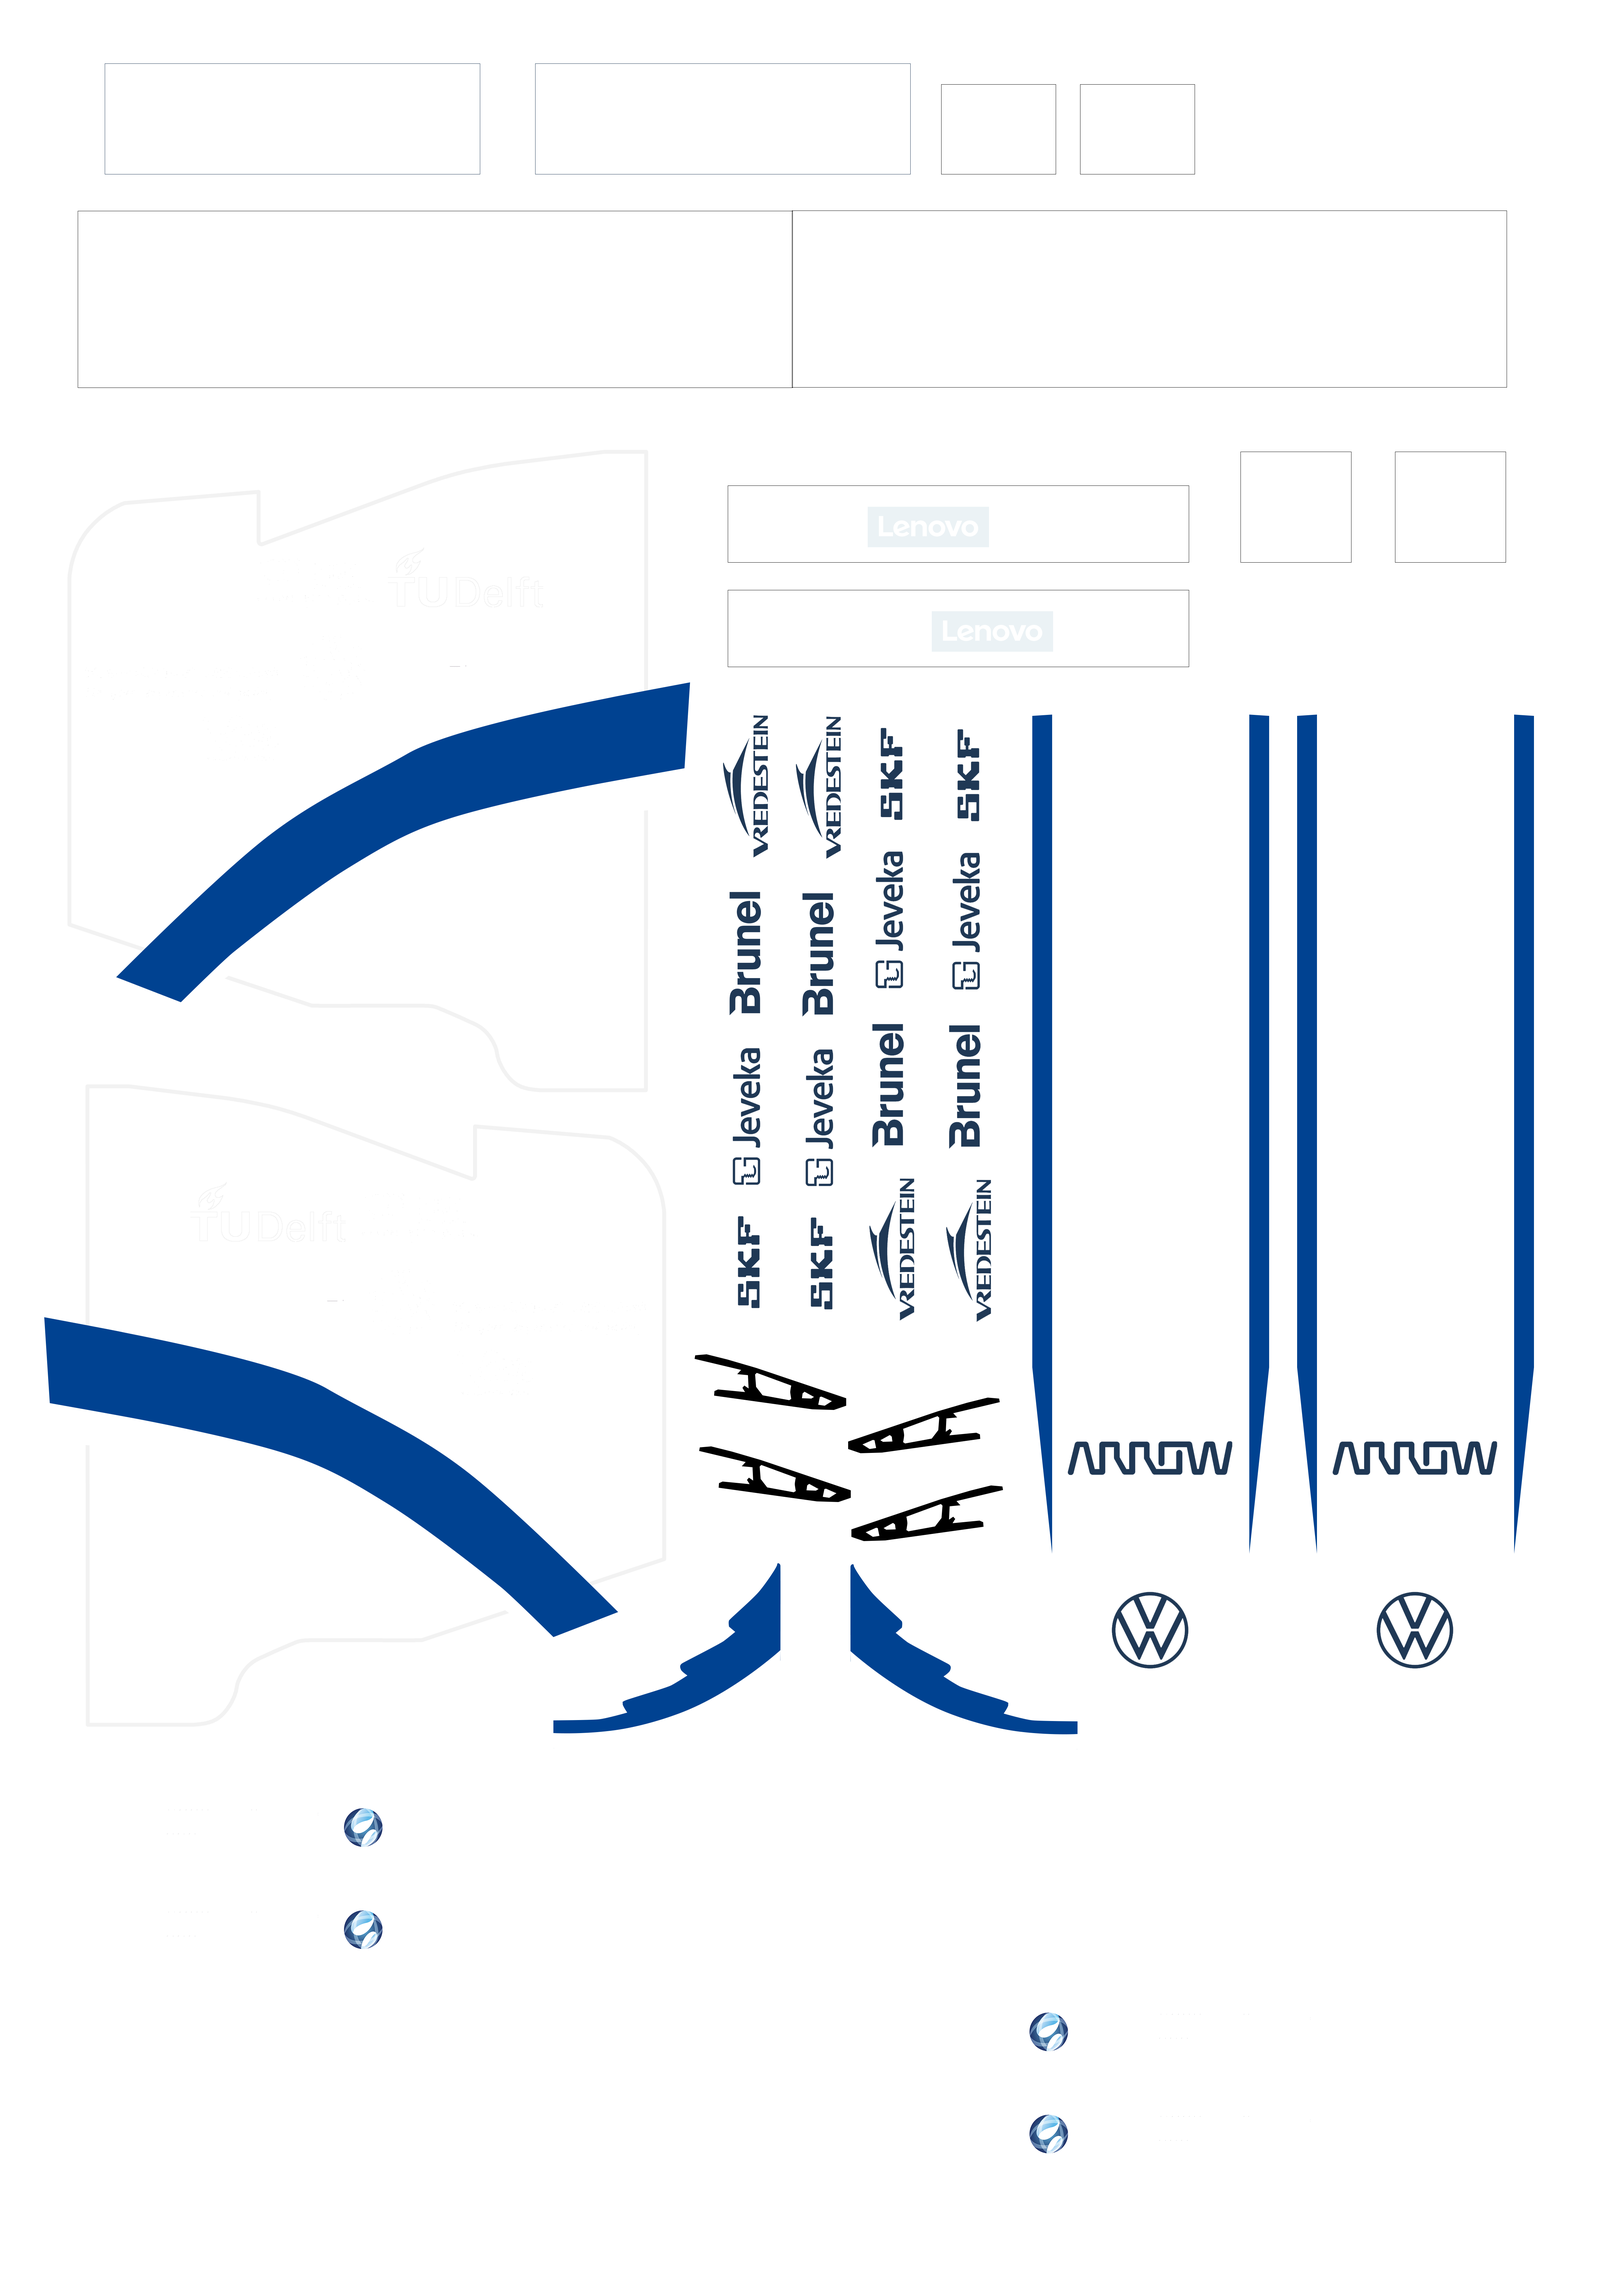
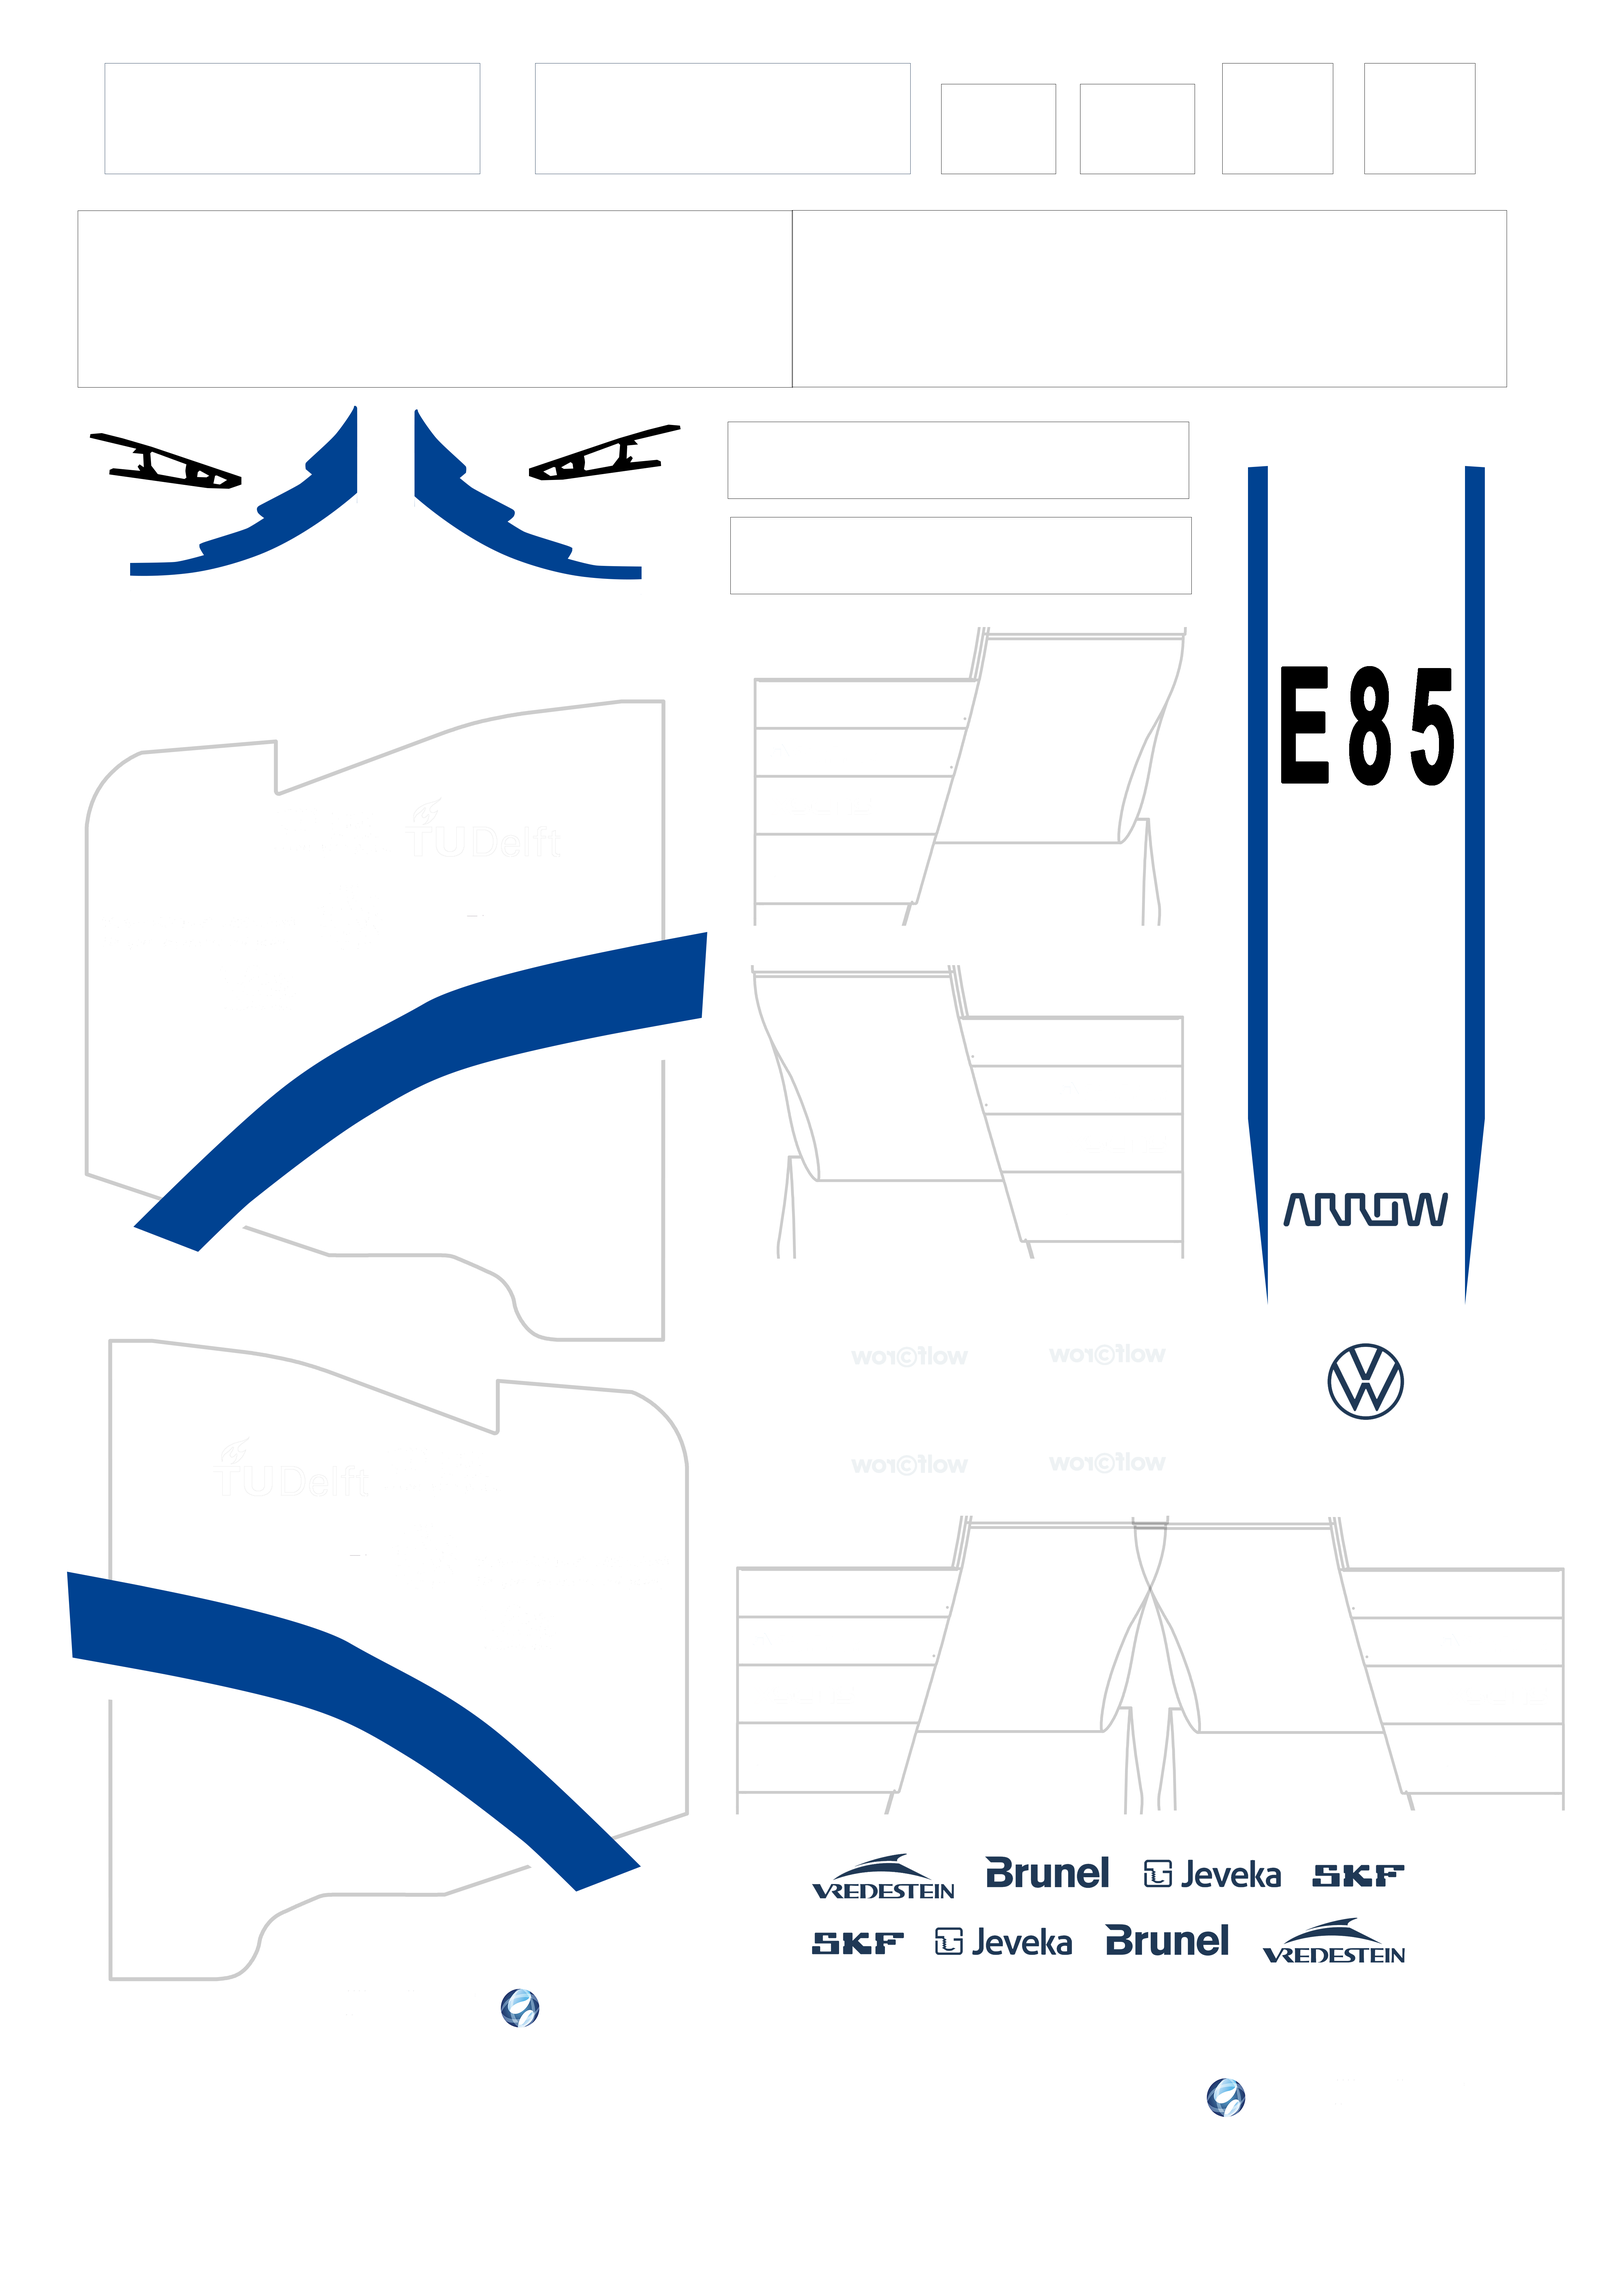
Now with decals!

diff --git a/README.md b/README.md
@@ -3,16 +3,16 @@
 Always wanted to take DUT21 home, but Larry won't let you? Here, you'll find all the files needed to print your very own **1:10 scale model DUT21 car**! How exciting. You better make sure you like screaming when it breaks, cause this isn't perfect in the slightest. Buckle up if you're brave.
 
 ### Pretty pictures
+![](photos/pretty_image_9.png "Wow what an amazing car")
+![](photos/pretty_image_10.png "Wow what an amazing car")
 ![](photos/pretty_image_3.png "Wow what an amazing car")
-![](photos/pretty_image_2.png "Wow what an amazing car")
-![](photos/pretty_image_1.png "Wow what an amazing car")
+[](photos/pretty_image_2.png "Wow what an amazing car")
+[](photos/pretty_image_1.png "Wow what an amazing car")
 ![](photos/pretty_image_7.png "Wow what an amazing car")
 ![](photos/pretty_image_8.png "Wow what an amazing car")
 ![](photos/pretty_image_4.png "Wow what an amazing car")
 ![](photos/pretty_image_5.png "Wow what an amazing car")
 ![](photos/pretty_image_6.png "Wow what an amazing car")
-
-
 
 
 
@@ -65,12 +65,12 @@ Don't forget a primer and take your time while masking off the chassis. For the 
 I used some awesome competition photos as a reference for how to paint it, as well as [this picture of the wrap](photos/wrap.jpeg). I skipped the light blue on the chassis cause I'm lazy, but you do what floats your boat.
 
 ### Assembly
-Just glue it with some super glue, but be smart with the order. Normal glueing tips apply, degrease a bit (or not, if you're brave) and apply ample pressure. For lining everything up, I mostly used the 3D model and did what looked right.
+Just glue it with some super glue, but be smart with the order. Normal glueing tips apply, degrease a bit (or not, if you're brave) and apply ample pressure. For lining everything up, I mostly used the 3D model and did what looked right. If you're applying the declals (which you should cause they're awesome), then I'd recommend doing so before assembly. The other way around can be done, but it's just a bit more of a hassle.
 
 ### Do's and don'ts 
 - Don't be a dumbdumb like me and leave a black PLA chassis in the scorching sun while preparing for painting. PLA will warp like crazy, especially the hollow chassis. Maybe print it with a tiny bit of infill to prevent it from happening as severely as it did to me. 
 
-- Don't be a dumbdumb like me and drop the whole thing, cause everything that can break will break.
+- Don't be a dumb-dumb like me and drop the whole thing, cause everything that can break will break.
 - Don't use hot glue when something breaks. Hot glue is hotter than PLA likes, so warpie warpie -> everything's messed up.
 - I thought I was pretty smart by printing the suspension rods with 100% infill. In Cura, and probably other slicers as well, you can set it to only use 100% infill in a certain area. Still broke when I dropped it, I tried my best. Might be smart to use for the roll hoop as well.
 - Make sure to pay extra attention whether everything is straight and level when glueing things together.
@@ -78,12 +78,13 @@ Just glue it with some super glue, but be smart with the order. Normal glueing t
 
 ## Things to fix still
 - [x] Decals! Gonna get all the sponsors on it to make it look all nice and pretty. For the blue on white, clear waterslide decals seem to work well. I'm still looking for suggestions on how to make the white decals. HMU if you got ideas.
-*Update 23/8/2022: I've uploaded the [decals](decals.png) which I've sent to be printed at https://www.printmetwit.nl/ . Will update once I've seen the results.*
-- [ ] Turns out I forgot the decals on the FW and SD, and the E85 on the top of the car, so still need to add those.
+*Update 23/8/2022: I've uploaded the [decals](decals.png) which I've sent to be printed at https://www.printmetwit.nl/ . Will update once I've seen the results.
+Update 26/8/2022: Decals turned out great and were pretty easy to apply. 10/10 would buy again.*
+- [X] Turns out I forgot the decals on the FW and SD, and the E85 on the top of the car, so still need to add those.
 - [x] Fix that one annoying wing element on the front wing which is way too flimsy who even designed that thing.
 - [ ] Fix the mounting of the cooling radiators. It just doesn't wanna glue right now
 - [ ] Maybe add some tiny recesses in the chassis where stuff needs to be glued? Can help with adhesion and lining stuff up
-- [ ] Add cables and cooling tubes. Thinking of using colored/painted filament, but that would mean 1.75mm always, which is a bit thicc.
+- [ ] Add cables and cooling tubes. Thinking of using colored/painted filament, but that would mean 1.75mm always, which is a bit thicc.s
 - [ ] Play around with the size of the suspension triangles. Maybe thinner suspension rods?
 - [x] Add some more fillets to strengten parts.
 - [x] Add the foam to main hoop.
@@ -96,6 +97,8 @@ Just glue it with some super glue, but be smart with the order. Normal glueing t
 If you've got any questions, hit me up on Slack, I should probably see messages there. If not, my phone number can be found on there as well.
 
 If you've made this, please please please send me photos, I would love for a lot of tiny DUT21's to exist. I still got loads of the right spraypaints left, so i can lend you some as well.
+
+Also, if you've sent the decals to get printed: I'm missing some of the (duplicate) SD diffuser decals, so HMU ;) 
 
 
 ### License
